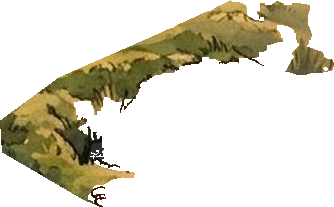
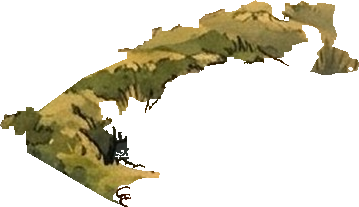
Pip is hidden on the marsh's raised mossy bank by the bend
The bank Mike marked as raised now counts inside the walk area too (mask_shapes.py
--raised), joined to the wedge it belongs to, instead of being dropped by the lip rule
where the walk edge faces sideways. Pip standing on it or behind it goes behind it.

diff --git a/tools/depth/mask_shapes.py b/tools/depth/mask_shapes.py
@@ -1,10 +1,12 @@
 """Put shapes from a text-prompt mask (SAM 3 on ComfyUI, tools/depth/comfy/<screen>/) into a screen as Auto_ sprites
 on the bottom-edge rule (scripts/occluder.gd), beside whatever Auto_ sprites are already there.
 
-  ../segment-env/venv/Scripts/python.exe tools/depth/mask_shapes.py <screen> <kind> <mask.png>[,<mask.png>...] [--banks] [--clear]
+  ../segment-env/venv/Scripts/python.exe tools/depth/mask_shapes.py <screen> <kind> <mask.png>[,<mask.png>...]
+      [--banks [--raised=<mask.png>]] [--clear]
 
-Several masks, comma-separated, are joined first: e.g. SAM 3's mask plus a hand-marked part it missed
-(tools/depth/comfy/marsh/marsh_bank_hand_mask.png, the raised mossy top of the bank by the bend, 2026-11-24).
+Several masks, comma-separated, are joined first. --raised adds bank a person has marked as raised that SAM 3
+missed (tools/depth/comfy/marsh/marsh_bank_hand_mask.png, the mossy bank by the bend, 2026-11-24): it counts
+inside the walk area too, so Pip standing in it is hidden by it.
 
 <kind> names the set (reeds, bank, ...): sprites go to assets/screens/<screen>/auto/<screen>_<kind>_<k>.png and
 nodes Auto_<kind>_<k> under Overhead, just above DepthOcc. A rerun replaces that kind only. --clear also removes
@@ -29,20 +31,29 @@ import cut_banks  # noqa: E402
 MIN_PX = 64
 
 
-def pieces(mask_path: str, banks: bool, tscn: str, painting: str) -> list:
+def load(paths: str) -> np.ndarray:
     m = np.zeros((cut_banks.H, cut_banks.W), bool)
-    for p in mask_path.split(","):
+    for p in paths.split(","):
         m |= np.array(Image.open(p).convert("L")) >= 128
+    return m
+
+
+def pieces(mask_path: str, banks: bool, tscn: str, painting: str, raised_path: str | None) -> list:
+    m = load(mask_path)
     if not banks:
         n, lab = cv2.connectedComponents(m.astype(np.uint8))
         return [lab == i for i in range(1, n) if (lab == i).sum() >= MIN_PX]
-    return cut_banks.cut(cut_banks.grow_ink(m, painting), cut_banks.walk_polygon(tscn))[0]
+    raised = load(raised_path) if raised_path else None
+    if raised is not None:
+        m |= raised
+    return cut_banks.cut(cut_banks.grow_ink(m, painting), cut_banks.walk_polygon(tscn), raised)[0]
 
 
 def main() -> None:
     args = [a for a in sys.argv[1:] if not a.startswith("--")]
     screen, kind, mask_path = args
     banks, clear = "--banks" in sys.argv, "--clear" in sys.argv
+    raised_path = next((a.split("=", 1)[1] for a in sys.argv if a.startswith("--raised=")), None)
     scene_path = f"scenes/screens/{screen}.tscn"
     tscn = open(scene_path, encoding="utf-8").read()
     bg = re.search(rf'path="res://(assets/screens/{screen}/[^"]+_bg\.jpg)"', tscn)
@@ -55,7 +66,7 @@ def main() -> None:
         if f.startswith(f"{screen}_{kind}_") and f.endswith(".png"):  # .import files keep their uids
             os.remove(os.path.join(asset_dir, f))
 
-    shapes = pieces(mask_path, banks, tscn, painting)
+    shapes = pieces(mask_path, banks, tscn, painting, raised_path)
     entries = []
     for k, mk in enumerate(shapes, 1):
         ys, xs = np.where(mk)

diff --git a/tools/depth/cut_banks.py b/tools/depth/cut_banks.py
@@ -89,8 +89,10 @@ def grow_ink(m: np.ndarray, painting: str, px: int = 12, dark: int = 55) -> np.n
     return m
 
 
-def cut(m: np.ndarray, poly: np.ndarray) -> tuple:
-    """The mask's pieces (boolean arrays, 64 px or more) and their kinds ("behind" or "front"), and the walk area."""
+def cut(m: np.ndarray, poly: np.ndarray, raised: np.ndarray | None = None) -> tuple:
+    """The mask's pieces (boolean arrays, 64 px or more) and their kinds ("behind" or "front"), and the walk area.
+    `raised`: bank a person has marked as raised. Inside the walk area too it follows the column rule (behind if
+    there's walk area below it), instead of the lip rule, so Pip standing in it is hidden by it."""
     walk = np.zeros((H, W), np.uint8)
     cv2.fillPoly(walk, [poly.round().astype(np.int32)], 1)
     walk = walk.astype(bool)
@@ -102,9 +104,11 @@ def cut(m: np.ndarray, poly: np.ndarray) -> tuple:
             continue
         walk_below = np.r_[(np.flip(np.cumsum(np.flip(w))) > 0)[1:], False]
         outside = m[:, x] & ~w
+        if raised is not None:
+            outside |= raised[:, x]
         behind[outside & walk_below, x] = True
         front[outside & ~walk_below, x] = True
-    front |= m & walk & facing_lip(poly, walk)
+    front |= m & walk & facing_lip(poly, walk) & ~behind
     pieces, kinds = [], []
     for kind, cls in (("behind", behind), ("front", front)):
         n, lab = cv2.connectedComponents(cls.astype(np.uint8))
